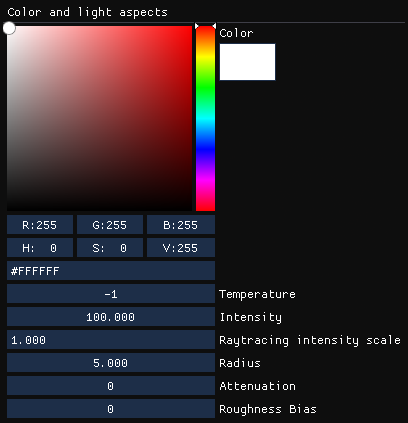
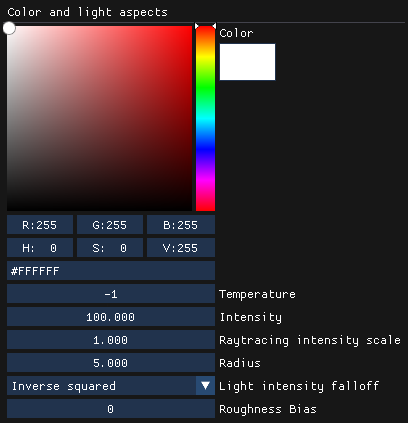
Cyberlit guide update
and a minor fix to basics guide

diff --git a/markdown/GeneralGuides/cyberlit.md b/markdown/GeneralGuides/cyberlit.md
@@ -58,20 +58,20 @@ If you already have an RGB value set, this setting will modify that color. You n
 This controls how bright the light is.
 
 **Raytracing intensity scale**  
-*unknown*
+*unknown, appears to modify Intensity*
 
 **Radius**  
 This controls how far the light can travel, likely in in-game meters.
 
 ![radius](Images\cyberlit\eg_radius.png){.shadowed .autosize}
 
-**Attenuation**  
-This controls the intensity falloff of the light. 0 represents a 'natural' (inverse-square) falloff, while 1 maintains the intensity throughout the light radius. Values above 1 don't appear to do anything.
+**Light intensity falloff**  
+This controls the intensity falloff of the light. Setting this to **Inverse-square** mimics how light intensity would dim in the real world as it gets further from the source. Setting this to **None** maintains light intensity throughout the light radius.  
 
 ![attenuation](Images\cyberlit\eg_attn.png){.shadowed .autosize}
 
 @alert tip  
-Attenuation is a useful setting to have set to 1 while moving lights around. Since there is no intensity falloff due to distance, your subject will stay lit at the same brightness as lights are moved further or nearer.
+It can be useful to set this to **None** while moving lights around. Since there is no intensity falloff due to distance, your subject will stay lit at the same brightness as lights are moved further or nearer.
 @end
 
 **Roughness Bias**  
@@ -98,7 +98,7 @@ This controls how wide the whole cone of light is, in degrees.
 
 ![angles 2](Images\cyberlit\eg_outerangle.png){.shadowed .autosize}
 
-A larger outer angle will cast shadows over a larger region, however the shadow map remains the same resolution. An outer angle that's too large will result in pixelated shadows! This is also why you may not get hair shadows; the shadow map is simply too "low-res" / stretched out to capture them.
+A larger outer angle will cast shadows over a larger region, however the shadow map remains the same resolution. An outer angle that's too large will result in pixelated shadows!
 
 ![ew!](Images\cyberlit\eg_outres.png){.shadowed .autosize}
 
@@ -106,7 +106,7 @@ A larger outer angle will cast shadows over a larger region, however the shadow 
 This 'modifies' the falloff gradient set by the inner & outer angle. Values closer to 0 shift the gradient to be harsher, while values past 2 further soften the light past the set inner angle. Setting softness to 0 produces a very similar hard-edged spotlight to the one produced by an 'inner angle = outer angle' spotlight.
 
 **Shadow angle & radius**  
-Independent controls for fine-tuning shadow casting. Similar to light angle & radius above, except just for shadows.
+Independent controls for fine-tuning shadow casting. Similar to light angle & radius above, except just for shadows. Can be buggy, best to leave at -1 (default values).
 
 ---
 ## Shadow settings
@@ -123,8 +123,13 @@ This determines how sharp / soft the edges of your shadows are. Can be useful wh
 
 ![shadows 2!](Images\cyberlit\eg_shadows.png){.shadowed .autosize}
 
-**Enable local / contact shadows**  
-Enabling these let your light cast shadows. **Only spotlights are capable of casting shadows**
+**Enable local shadows**  
+Enabling this lets your light cast local shadows using a shadow map. **Only spotlights are capable of casting local shadows**
+
+**Use contact shadows**  
+Enabling this lets your light cast screenspace shadows. Use this to have hair cast shadows.
+
+![shadows 3!](Images\cyberlit\eg_contact.png){.shadowed .autosize}
 
 ---
 ## Toggles
@@ -147,7 +152,7 @@ The light will appropriately interact with transparent objects.
 The light will appropriately interact with particles (smoke, etc.).
 
 **Diffuse / Specular**  
-These control if the light contributes any surface lighting or specular highlights. Disabling diffuse for example creates a light that only shows up in reflections.
+These control if the light contributes any surface lighting or specular highlights. Disabling diffuse for example creates a light that only shows up in reflections. This feature is currently bugged in-game (1.31), once unchecked you will not be able to re-enable them!
 
 **Directional**  
 The light will be collimated, casting parallel shadows. This is useful when playing with shadows - a directional light casting parallel shadows will not change the size of the shadows based on its properties. This can mimic the incredibly distant nature of the sun as a light source.
@@ -157,6 +162,9 @@ Point lights do not work with Directional for obvious reasons. Area lights, even
 This is also how the outer angle shadow resolution example was taken, having the light be directional meant that the size of the shadow wouldn't change as the cone of light got wider.
 
 **Clamp attenuation**  
+*unknown*
+
+**Allow distant light**  
 *unknown*
 
 ---
@@ -169,12 +177,12 @@ At default settings, area lights seem to act like point lights, emitting light i
 Enabling Spotlight capsule causes the area light to function akin to a spotlight, with a few other quite useful features. Spotlight capsules function as capsule-shaped lights that point in a specific direction. They're also able to cast shadows!
 
 **Source radius**  
-This determines how large the light is physically in-game. This is different from the earlier **Radius** setting, which determines how far the light can cast. Generally, this affects the size of reflections.
+This determines how large the light is physically in-game. This is different from the earlier **Radius** setting, which determines how far the light can cast. Generally, this affects the size of specular highlights.
 
 ![reflections](Images\cyberlit\eg_srcrad.png){.shadowed .autosize}
 
 **Capsule length**  
-This determines how long the capsule is. This affects both the shape of the casted light and its reflection.
+This determines how long the capsule is. This affects both the shape of the casted light and its reflection. This also controls the size of the shadow map, reduce capsule length if your shadows are too pixelated.
 
 ![bars](Images\cyberlit\eg_caplength.png){.shadowed .autosize}  
 *Do note the dropoff in light intensity!*
@@ -209,7 +217,7 @@ By disabling Diffuse in Toggles and placing an area spotlight capsule very close
 Note that this does add specular highlights to other areas as well, most obviously on her lower eyelids in the above. You can reduce this additional specularity by placing the light more strategically.
 
 ---
-*last updated 19th April 2021*  
+*last updated 24th December 2021*  
 *written by [moyevka](https://twitter.com/moyevka)*  
 *thanks to [Dread](https://twitter.com/NattyDread011) for clarifying some settings*
 

diff --git a/markdown/basics.md b/markdown/basics.md
@@ -3,7 +3,7 @@
 <p><i>Assassin's Creed: Valhalla</i>, <a href="https://framedsc.github.io/HallOfFramed/?imageId=1612674582" target="_blank">shot</a> by Otis_Inf</p>
 </div>
 
-Welcome to [framedsc.github.io](https://framedsc.github.io/) - a site run by members of the FRAMED community, dedicated to compiling all the ways we know to take better in-game screenshots and more. This page serves as an introduction to the crazy methods we use to push games to their limits and capture the shots we want. Let's start by getting familiar with some terms.
+Welcome to [framedsc.com](https://framedsc.com/) - a site run by members of the FRAMED community, dedicated to compiling all the ways we know to take better in-game screenshots and more. This page serves as an introduction to the crazy methods we use to push games to their limits and capture the shots we want. Let's start by getting familiar with some terms.
 
 ---
 
